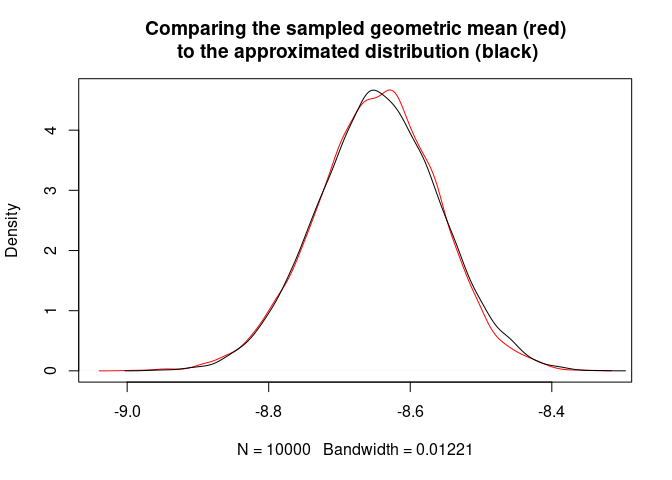
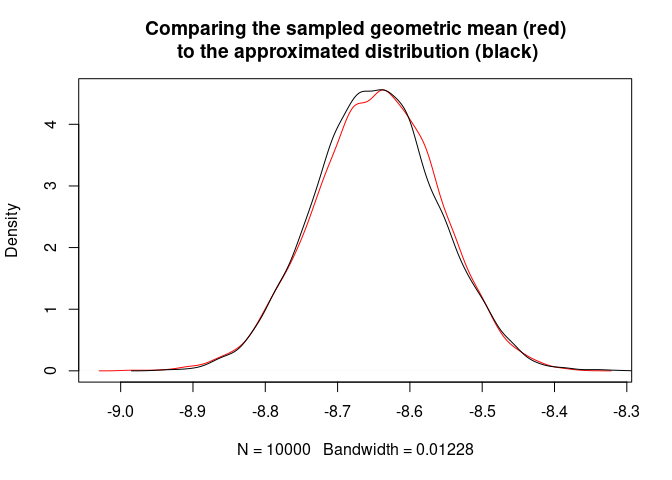
update

diff --git a/README.md b/README.md
@@ -37,7 +37,7 @@ knitr::kable(t(data.frame("observed" =
 
 |              |      mean |        sd |
 |:-------------|----------:|----------:|
-| observed     | -8.645020 | 0.0862882 |
+| observed     | -8.643650 | 0.0855051 |
 | approximated | -8.645706 | 0.0859221 |
 
 ``` r
